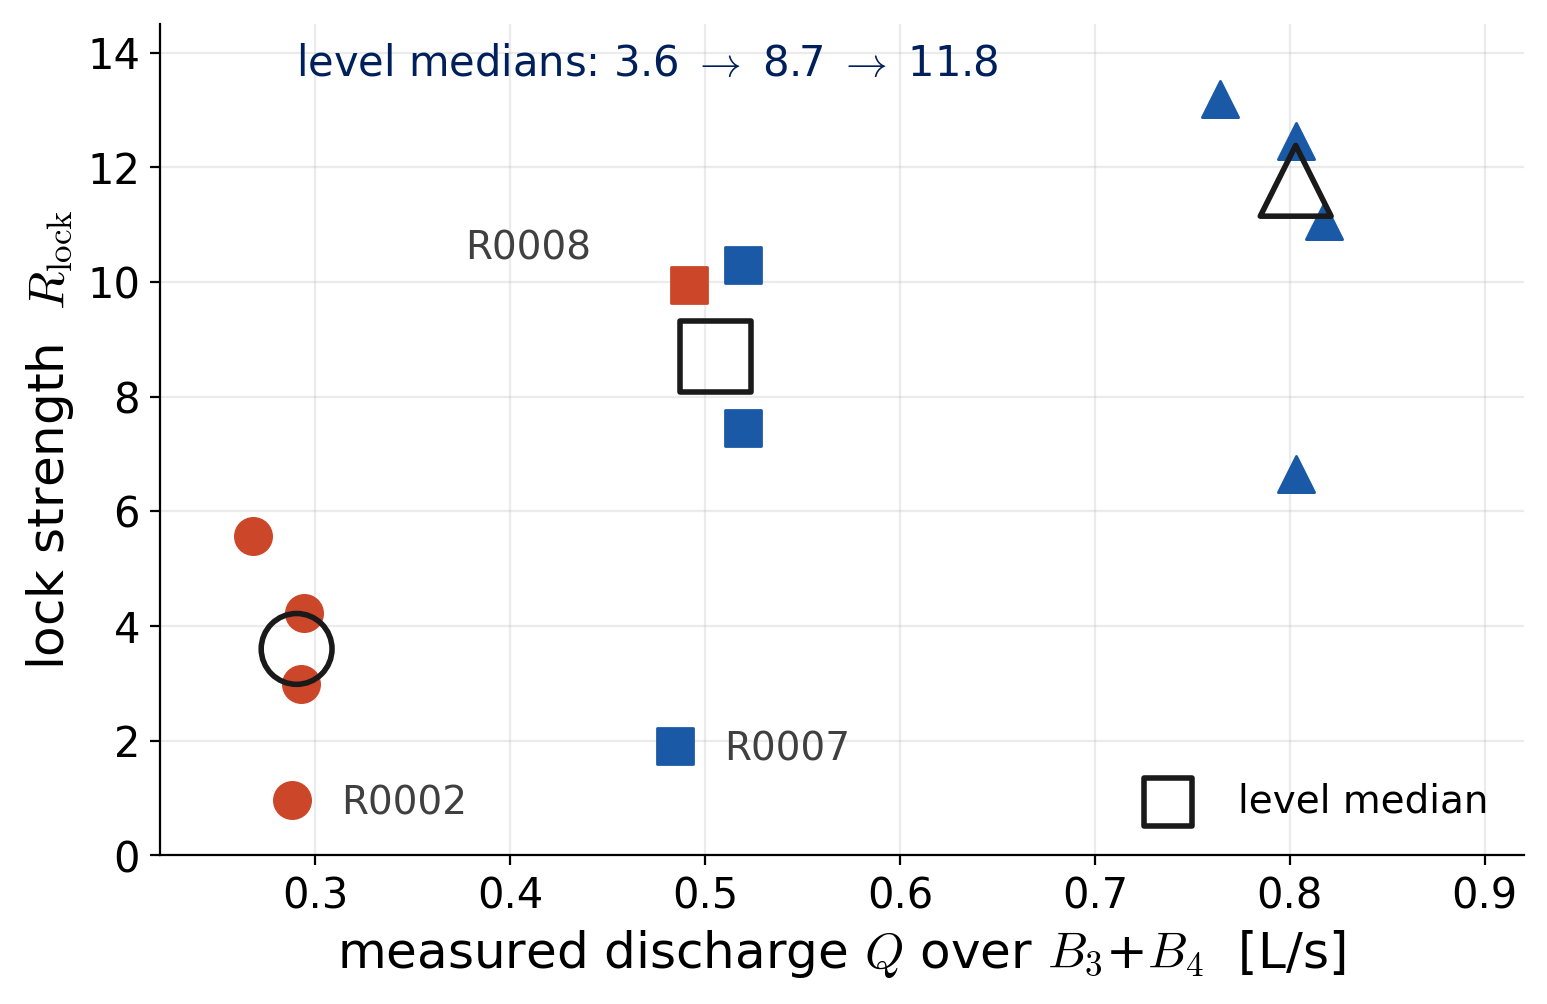
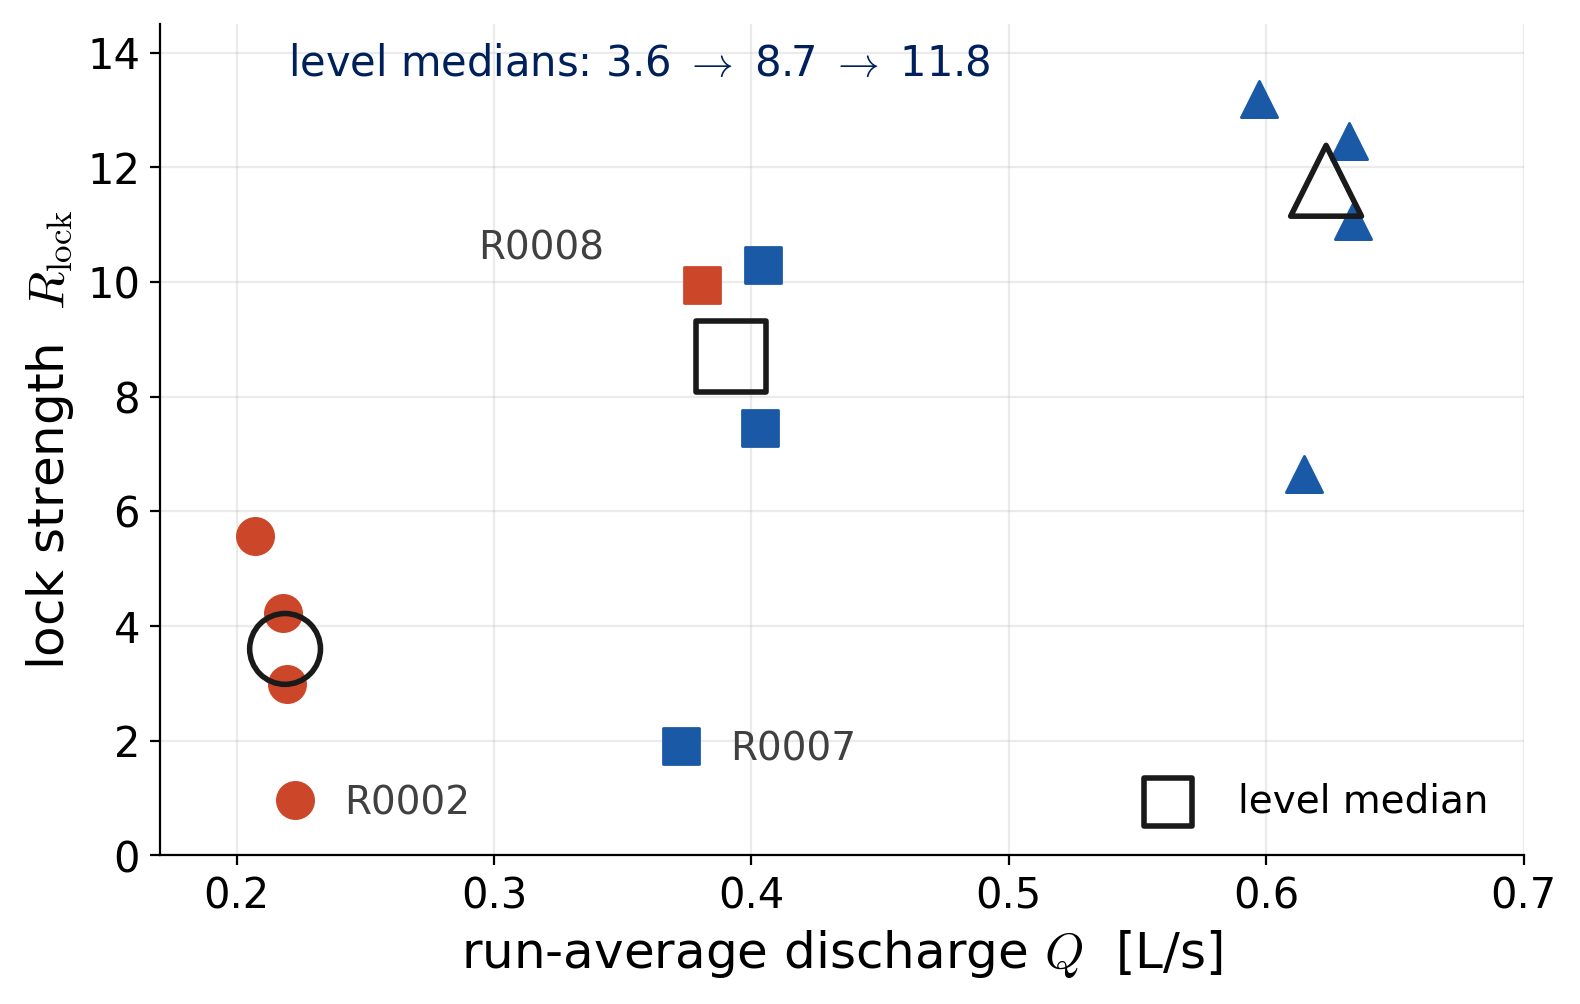
Paper 1: retire the band-wise discharge from README, code and the deck
Clears the three paper-1 rows the CFD session left in
doc/settled_and_retracted.md section 4, and chases the retracted quantity into
two places their note did not reach.

The bistability line now quotes the run average: R0007 0.373 vs R0008 0.381
L/s, 2.2% apart and inside the medium spread 0.373-0.405. The manuscript was
already on this footing since 7428b3a; it was README that still said "1-4%
over the deep bands".

The lock-strength range was NOT a casualty of the discharge question, contrary
to the handoff note. R_lock is |mean I_circ| / std(I_circ), so the a/U_p factor
cancels exactly -- rescaling I_circ by 0.37 or 12.5 leaves R_lock at 7.4583 to
four decimals. It carries no discharge at all, nominal or measured. The old
1.0-7.0 / 10.1-13.4 differed because the aggregation convention differed; the
current figures pool frames over B3+B4. README now states the convention and
why shallow bands are excluded, and section 4 of the index carries the
correction so the wrong inference does not propagate.

Pre-submission item 2 is rewritten: the plan-area story and the transit-time
recommendation are both retracted, and what actually remains is the absolute
discharge, since the run average takes its dh from the same gauge at 30 and
100 mm. Item 3 is down to the tracer particle alone. Added item 4 for the
depth-axis decision.

Two live users of the retracted column, both mine:
- compute_branch_statistics.m still told the reader to prefer the transit-time
[…]

diff --git a/paper/2026_journal_Shonai/slides/gen_assets.py b/paper/2026_journal_Shonai/slides/gen_assets.py
@@ -101,23 +101,23 @@ fig, ax = plt.subplots(figsize=(8.8, 5.4))
 for _, r in bs.iterrows():
     lv = level_of[r.run_id]
     c = POS if r.branch_sign > 0 else NEG
-    ax.scatter(r.Q_transit_Lps, r.R_lock, s=170, marker=LEVELM[lv], c=c, zorder=3)
+    ax.scatter(r.Q_run_mean_Lps, r.R_lock, s=170, marker=LEVELM[lv], c=c, zorder=3)
 med = bs.assign(level=[level_of[r] for r in bs.run_id]).groupby("level")
 for lv in levels:
     g = med.get_group(lv)
-    ax.scatter(g.Q_transit_Lps.median(), g.R_lock.median(), s=650, marker=LEVELM[lv],
+    ax.scatter(g.Q_run_mean_Lps.median(), g.R_lock.median(), s=650, marker=LEVELM[lv],
                facecolor="none", edgecolor=INK, lw=2.0, zorder=4)
-for rid, dx, dy in [("R0002", 0.025, -0.25), ("R0007", 0.025, -0.25), ("R0008", -0.115, 0.45)]:
+for rid, dx, dy in [("R0002", 0.019, -0.25), ("R0007", 0.019, -0.25), ("R0008", -0.087, 0.45)]:
     r = bs[bs.run_id == rid].iloc[0]
-    ax.annotate(rid, (r.Q_transit_Lps, r.R_lock), xytext=(r.Q_transit_Lps + dx, r.R_lock + dy),
+    ax.annotate(rid, (r.Q_run_mean_Lps, r.R_lock), xytext=(r.Q_run_mean_Lps + dx, r.R_lock + dy),
                 fontsize=14, color="0.25")
 ax.scatter([], [], s=300, marker="s", facecolor="none", edgecolor=INK, lw=2.0,
            label="level median")
 ax.legend(loc="lower right", frameon=False, fontsize=14)
-ax.set_xlabel("measured discharge $Q$ over $B_3$+$B_4$  [L/s]")
+ax.set_xlabel("run-average discharge $Q$  [L/s]")
 ax.set_ylabel("lock strength  $R_{\\mathrm{lock}}$")
-ax.set_xlim(0.22, 0.92); ax.set_ylim(0, 14.5)
-ax.text(0.29, 13.6, "level medians: 3.6 $\\to$ 8.7 $\\to$ 11.8", fontsize=15, color=KUBLUE)
+ax.set_xlim(0.17, 0.70); ax.set_ylim(0, 14.5)
+ax.text(0.22, 13.6, "level medians: 3.6 $\\to$ 8.7 $\\to$ 11.8", fontsize=15, color=KUBLUE)
 ax.grid(alpha=0.25)
 save(fig, "lock_vs_q.png")
 

diff --git a/src/metrics/compute_branch_statistics.m b/src/metrics/compute_branch_statistics.m
@@ -44,12 +44,12 @@ function T = compute_branch_statistics(cfg, varargin)
 % under review (doc/qdip_jet_check.md). It ignores the guide-channel plan area
 % below h = a, worth about 1%.
 %
-% Note on Q_transit_Lps: with the default deep bands the swept volume is
-% simply A_plan * dh, because both bands lie above the guide-channel ceiling
-% h = a. Below h = a the channel adds plan area and the volume would carry
-% that (still unconfirmed) geometry -- see scripts/s33_compare_cfd_experiment.m.
-% The transit-time estimate is preferred over the q_actual column, which is
-% rate-limited by the 1 mm quantization of the water-level logger.
+% Q_transit_Lps is RETRACTED as a quantity to quote, and is kept only as a
+% diagnostic. Every band-wise discharge drawn from the upper-basin level record
+% is unusable: the gauge misreads by up to ~10 mm near h/a = 1, which swings
+% the apparent band discharge by a factor of two to three even though the real
+% discharge is steady within each run (doc/settled_and_retracted.md 1-2).
+% Normalize with Q_run_mean_Lps instead.
 
     p = inputParser;
     p.addRequired('cfg', @isstruct);

diff --git a/paper/README.md b/paper/README.md
@@ -49,10 +49,18 @@
 - **流量が循環の向きを選択する**: inflow 12 ラン (4 日 x low/medium/high のブロック計画) で
   low は 4/4 が正, high は 4/4 が負, medium のみ 3 負 / 1 正. 同一日の中で low と high の
   符号が分かれるため, 装置セットアップや日差ではなく**流量に帰属する**.
-- **medium は遷移域で双安定**: R0008 (4 日目) だけが逆符号. 深水帯 (B3/B4) の実測流量は
-  R0007 と 1--4% しか違わないため, 同条件で結果が割れる真の分岐.
-  ※ 引用する流量は必ず band を明示した値を使うこと (下記の注意を参照).
-- ロックの強さ (|I_circ 平均|/std) が流量とともに単調増加 (low 1.0-7.0 → high 10.1-13.4).
+- **medium は遷移域で双安定**: R0008 (4 日目) だけが逆符号. ラン平均の実測流量は R0007 の
+  0.373 L/s に対し 0.381 L/s で差は 2.2% にすぎず, medium 4 ラン全体の散らばり
+  (0.373-0.405 L/s) の中に収まる. 同条件で結果が割れる真の分岐.
+  ※ 流量は**ラン平均** (`branch_stats.csv` の `Q_run_mean_Lps`) で引く.
+  帯ごとの水位由来 Q は使わない (`doc/settled_and_retracted.md` §1-2).
+- ロックの強さ (|I_circ 平均|/std) が流量とともに単調増加:
+  low 0.97-5.56, medium 1.91-10.30, high 6.65-13.20 (水準中央値 3.60 / 8.70 / 11.76).
+  集計は**深水帯 B3+B4 のフレームをプール**した値 (`compute_branch_statistics.m`).
+  浅水帯を外すのは, そこではジェットが自由表面に露出して蛇行し, 枝の選択とは別の理由で
+  ロックが弱く見えるため. なお I_circ の比なので, この量は流量の値には依存しない
+  (a/U_p が分子分母で相殺する). 旧記載の 1.0-7.0 → 10.1-13.4 は集計規約が違っただけで,
+  流量の扱いの変更とは無関係.
 - outflow は現状ノイズ床以下だが, **原因は PIV の画像対間隔 Δt の選定であり修正可能**
   (`doc/piv_conditions.md` §4). 再実験は不要で, 同じ元動画から対間隔を伸ばして
   再エクスポート・再 PIV すればよい. **投稿前に片付ける価値が最も高い項目**.
@@ -72,14 +80,19 @@ PIV の観測条件と限界.
 
 **投稿前に片付ける項目**:
 1. outflow の Δt 再選定と再 PIV (`doc/piv_conditions.md` §8-2). 主要結果 3 本のうち 1 本が復活する.
-2. `compute_actual_discharge` の平面積が水深に依らず一定という問題. 水位が導水路天端
-   (h = a) より下では平面積が大きいため, 浅水帯の Q が過小評価される. 実測 q_actual が
-   同一ラン内で B1 0.32 → B4 0.56 L/s と系統的に増加するのはこれが主因
-   (s33 は既に A_below/A_above で処理済みなので, s31 側も揃える).
-   なお q_actual は水位ロガーの 1 mm 量子化にも律速されているため, 流量を引用する箇所では
-   遷移時間法 (Q = dV_band / T_band) を使う方が安全.
-3. 原稿の残 TODO (`doc/piv_conditions.md` §6-7): トレーサ粒子の種類・粒径,
-   Ω のポートマスク記述とコードの整合, methods.tex の eq:Iasym の絶対値.
+2. 流量の**絶対値**の確認. ラン内で流量が一定であることは決着したが
+   (`doc/settled_and_retracted.md` §1), ラン平均 Q = A·Δh/T の Δh は上池水位計の
+   30 mm と 100 mm の読みなので, 水位計の span が正しいという未検証の前提が残る.
+   「公称の 0.75-0.89 倍」もこれを引き継ぐ. 下池のプラン面積を 1 回測るか静的較正を
+   1 回行えば閉じる (同 §3). 原稿では NOTE コメントに留めてある.
+   ※ 旧項目「平面積が水深に依らず一定なのが Q 増加の主因」と
+   「遷移時間法を使う方が安全」は, いずれも撤回済み (同 §2).
+3. トレーサ粒子の種類・粒径 (`doc/piv_conditions.md` §7). 実験者への聞き取りが要る.
+   原稿 `tab:piv_settings` に残る最後のプレースホルダ.
+   ※ 同項目にあった Ω のポートマスク記述と eq:Iasym の絶対値は `methods.tex` で対応済み.
+
+4. **深さの軸**の決裁 (`doc/settled_and_retracted.md` §3). 時間比例に替えるなら
+   `s31` に深さの選択肢を足し, 帯ごとの数値と図を更新する. 主張は変わらず数値が動く.
 
 ---
 

diff --git a/doc/settled_and_retracted.md b/doc/settled_and_retracted.md
@@ -53,6 +53,8 @@
 
 | 場所 | 何が古いか | 担当 |
 |---|---|---|
-| `paper/README.md` 投稿前項目 #2 | 前半「平面積が主因」は否定済み. 後半「遷移時間法を使う方が安全」は §2 で撤回済み | 1 本目 |
-| `paper/README.md` 投稿前項目 #3 | 3 件のうち eq:Iasym の絶対値と Ω のポートマスク記述は `methods.tex` で対応済み. 残るのはトレーサ粒子の種類・粒径のみ | 1 本目 |
-| `paper/README.md` 1 本目「中心的な結果」 | ロック強度の範囲 (low 1.0-7.0 → high 10.1-13.4) と「深水帯の実測流量は 1-4% しか違わない」は帯ごとの水位由来 Q に依拠している | 1 本目 |
+
+上記 3 件は 2026-11-15 に修正済み (1 本目).
+なおロック強度 |I_circ 平均|/std は I_circ の比なので, a/U_p が相殺して**流量の値には
+依存しない** (スケール不変であることを確認済み). 旧記載との差は集計規約 (深水帯 B3+B4 の
+フレームをプール) の違いによるもので, 帯ごとの Q の撤回とは無関係である.
